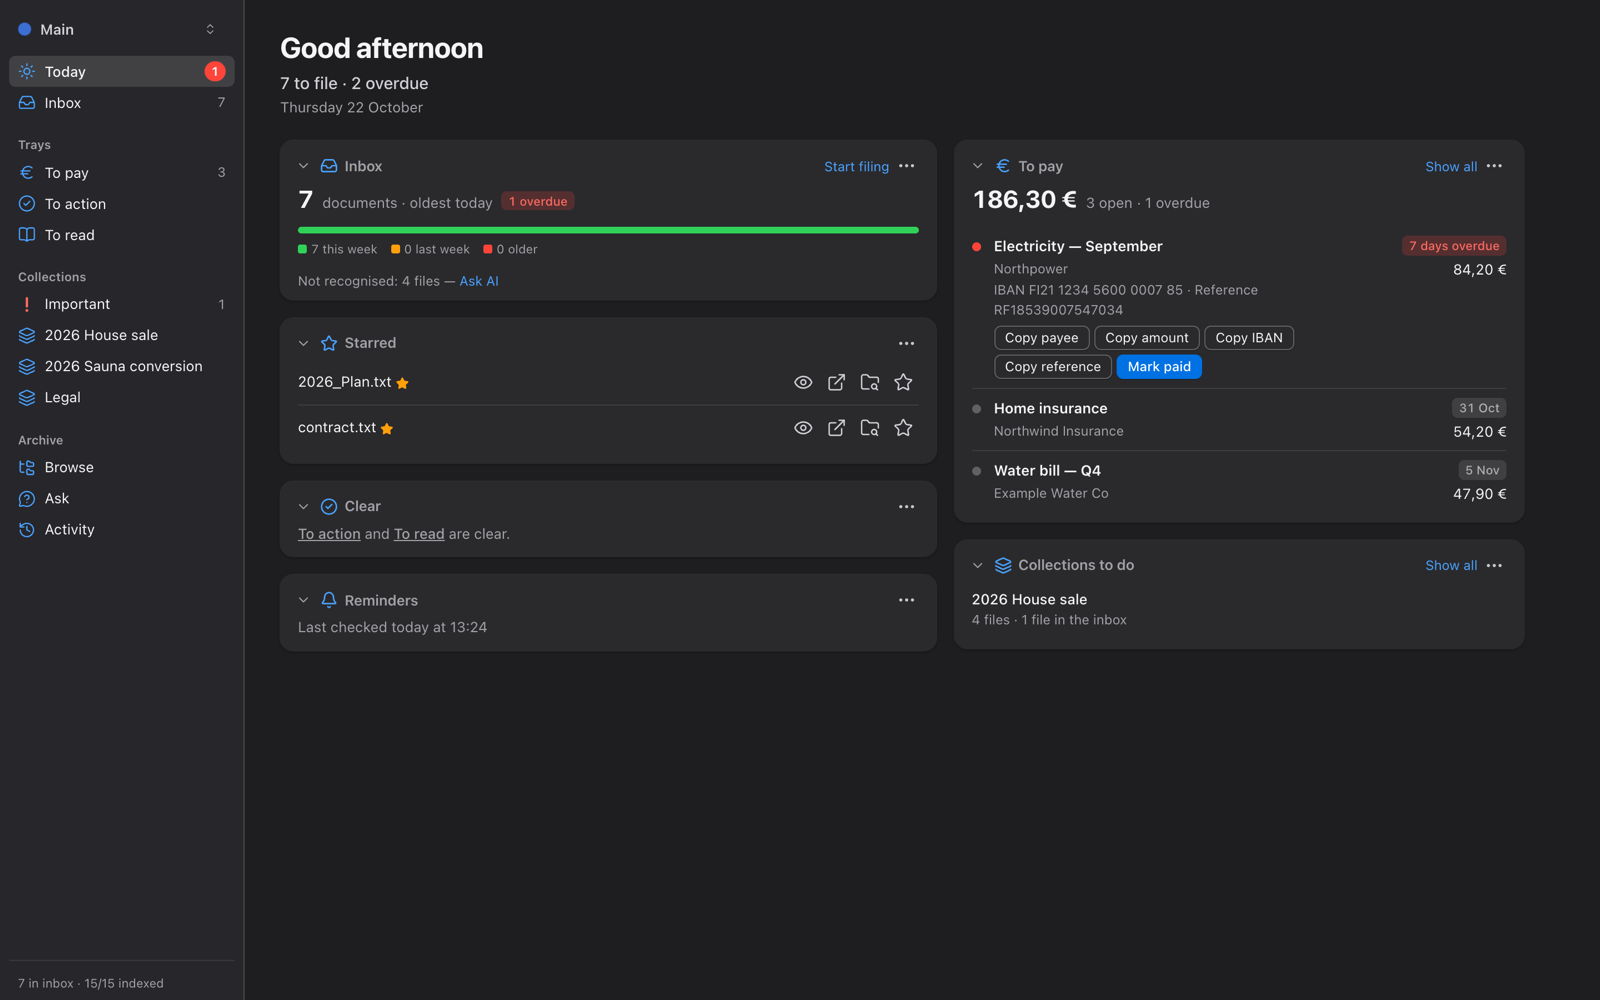
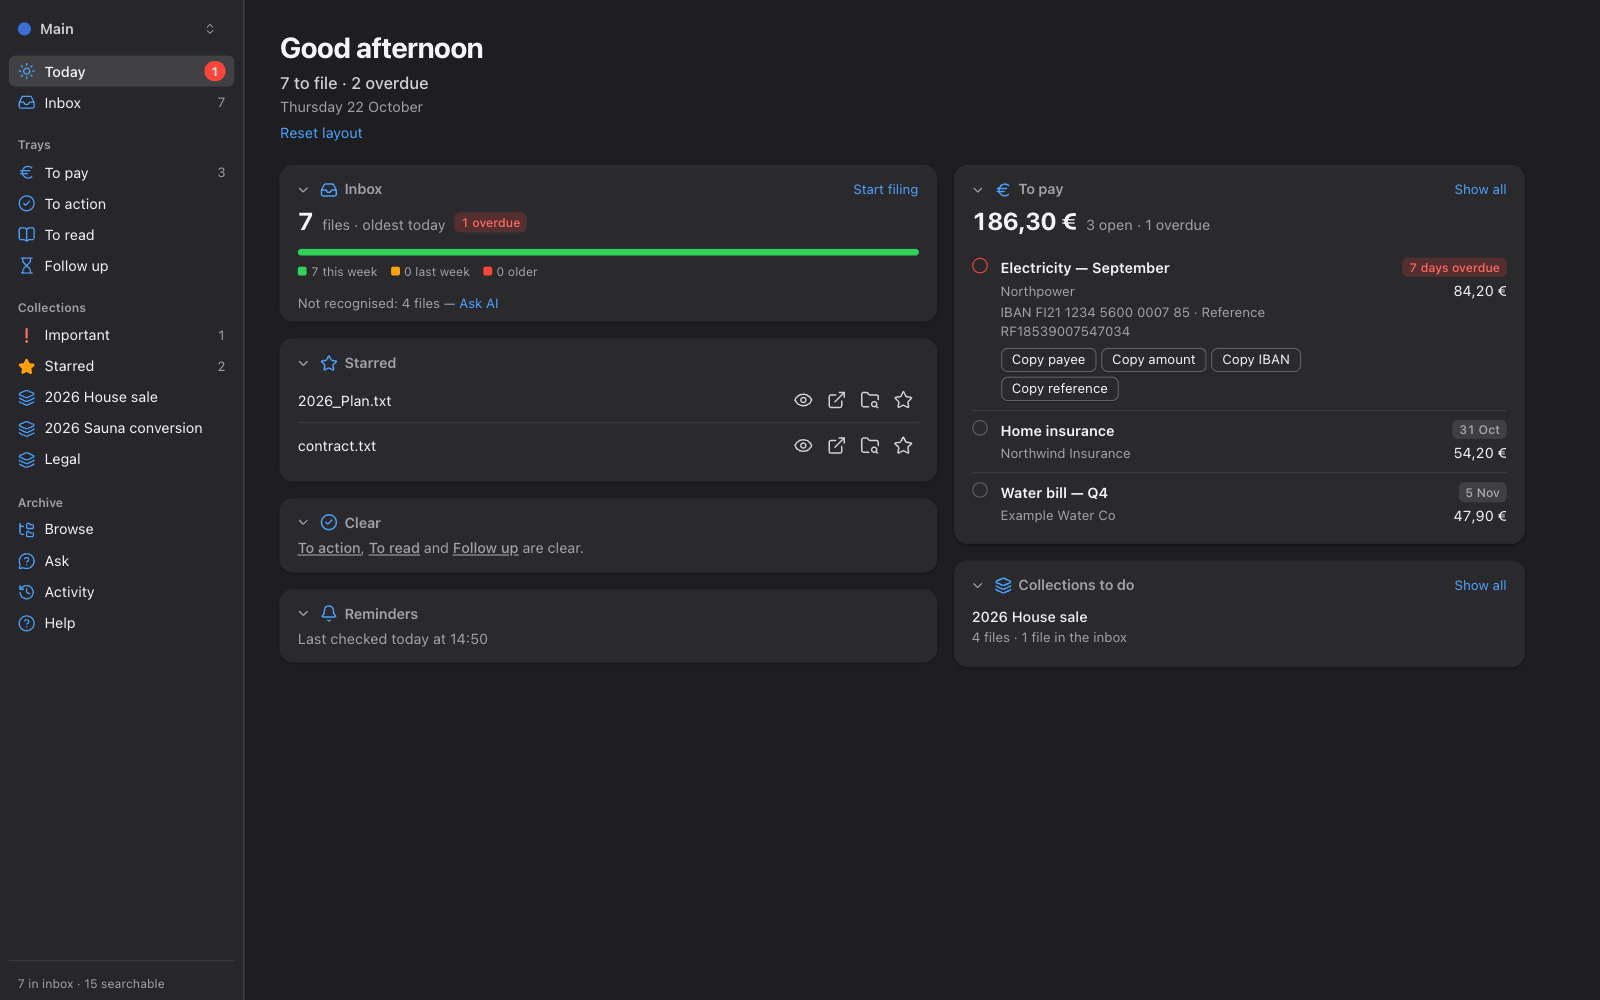
docs: refresh the README and screenshots; fix: excluded AI folders found in any case on Linux (#19)
* docs: refresh the README and its screenshots after #15 to #18

The screenshots showed the old Browse and collection panels, no Follow up tray, no
Starred row and the old key hints. All twelve are retaken in light and dark, and a
third row adds the collection panel and Activity → AI with the excluded folders. The
text mentions folders in collections and the excluded-folders list, and drops em
dashes.

scripts/screenshots stages a fresh demo archive through the API (only the demo server
on localhost) and takes the shots with Playwright and the installed Chrome, so the next
refresh is two commands.

* fix: find excluded AI folders in any case on Linux too

The excluded-folders list (#18) marks a folder "not in the archive" with a plain
is_dir() on the path as typed. Exclusion matching folds case and Unicode, so on a
case-sensitive file system "10. financial" was excluded correctly but reported as
missing. backend (ubuntu-latest) failed on main since #18 and on this PR for that
reason. The check now walks the folders with the same folding (fold_parts).

---------

diff --git a/scripts/screenshots/stage.py b/scripts/screenshots/stage.py
@@ -1,0 +1,62 @@
+"""Stage a fresh demo archive the way the README screenshots show it: Ongoing and
+Important converted, three bills in To pay, a folder excluded from AI. It talks only to
+the demo server on localhost:8766, never to a real archive.
+
+    cd backend && uv run python -m dam.demo /tmp/dam-shots
+    uv run dam --data-dir /tmp/dam-shots/data serve --no-open --port 8766
+    python3 scripts/screenshots/stage.py        # once, on the fresh demo
+    uv run --no-project --with playwright python scripts/screenshots/shoot.py docs/images
+
+``shoot.py`` uses the installed Google Chrome (``channel="chrome"``).
+"""
+
+import json
+import sys
+import urllib.request
+
+BASE = "http://localhost:8766"
+
+
+def call(method: str, path: str, body: dict | None = None):
+    data = None if body is None else json.dumps(body).encode()
+    req = urllib.request.Request(BASE + path, data=data, method=method, headers={"Content-Type": "application/json", "Origin": BASE})
+    try:
+        with urllib.request.urlopen(req) as r:
+            raw = r.read()
+            return json.loads(raw) if raw else None
+    except urllib.error.HTTPError as e:
+        sys.exit(f"{method} {path}: {e.code} {e.read().decode()}")
+
+
+def convert(kind: str, body: dict) -> None:
+    left = {e["rel"] for e in call("GET", f"/api/{kind}/entries") if not e.get("managed")}
+    if body["rel"] not in left:
+        print("already converted", body["rel"])
+        return
+    plan = call("POST", f"/api/{kind}/preview", body)
+    call("POST", f"/api/{kind}/convert", {**body, "fingerprint": plan["fingerprint"]})
+    print("converted", body["rel"])
+
+
+# Ongoing: two collections, two stars (as in the old Activity shot)
+convert("ongoing", {"rel": "##. Ongoing/2026 Sauna conversion", "collection": "2026 Sauna conversion"})
+convert("ongoing", {"rel": "##. Ongoing/Electricity contract", "star": True})
+convert("ongoing", {"rel": "##. Ongoing/2026_Plan.txt", "star": True, "destination": "30. Home"})
+convert("ongoing", {"rel": "##. Ongoing/Legal", "collection": "Legal", "destination": "30. Home/Legal"})
+convert("important", {"rel": "##. Important/passport.pdf", "destination": "40. Family"})
+
+# To pay: three bills with a payee and a title
+BILLS = [
+    ("demo-12", "Water bill — Q4", "Example Water Co"),
+    ("demo-4", "Electricity — September", "Northpower"),
+    ("demo-3", "Home insurance", "Northwind Insurance"),
+]
+for drive_id, title, payee in BILLS:
+    created = call("POST", "/api/items/quick", {"tray": "to-pay", "drive_ids": [drive_id]})["created"]
+    item = created[0]
+    call("PATCH", f"/api/items/{item['id']}", {"title": title, "fields": {**item["fields"], "payee": payee}})
+    print("item", item["id"], title)
+
+# AI: exclude the family folder (it exists in the demo) besides the defaults
+call("PUT", "/api/ai/exclude-folders", {"folders": ["40. Family", "50. Medical"]})
+print("excluded folders set")

diff --git a/scripts/screenshots/shoot.py b/scripts/screenshots/shoot.py
@@ -1,0 +1,71 @@
+"""The README screenshots, light and dark, from the staged demo server (see stage.py):
+1600x1000 PNGs written to the folder given; more arguments take only those shots.
+
+    uv run --no-project --with playwright python scripts/screenshots/shoot.py docs/images [inbox ...]
+"""
+
+import sys
+from datetime import UTC, datetime
+from pathlib import Path
+
+from playwright.sync_api import sync_playwright
+
+BASE = "http://localhost:8766"
+OUT = Path(sys.argv[1])
+ONLY = set(sys.argv[2:])
+
+# A demo is staged whenever it is run: show its times as about 14:00 (a fixed-offset zone
+# from UTC-12 to UTC+14; the Etc/GMT names have the sign the other way round).
+_offset = (14 - datetime.now(UTC).hour + 12) % 24 - 12
+TZ = f"Etc/GMT{-_offset:+d}"
+
+
+def paymode(page):
+    page.get_by_role("button", name="Show large barcode").click()
+    page.get_by_role("dialog").wait_for()
+
+
+def expand(page):
+    page.get_by_role("button", name="Expand all").click()
+
+
+def ai(page):
+    page.get_by_role("button", name="AI", exact=True).click()
+    page.wait_for_selector("[aria-label='Excluded folders']")
+
+
+SHOTS = {
+    "inbox": ("/inbox?file=demo-12", None),
+    "today": ("/", None),
+    "paymode": ("/trays/to-pay?item=1", paymode),
+    "browse": ("/browse?path=30.%20Home&select=demo-15", None),
+    "activity": ("/activity", expand),
+    "collection": ("/collections/3", None),
+    "ai-settings": ("/activity", ai),
+}
+
+with sync_playwright() as p:
+    browser = p.chromium.launch(channel="chrome")
+    for scheme in ("light", "dark"):
+        ctx = browser.new_context(
+            viewport={"width": 1440, "height": 900},
+            device_scale_factor=1600 / 1440,
+            color_scheme=scheme,
+            timezone_id=TZ,
+        )
+        page = ctx.new_page()
+        for name, (url, then) in SHOTS.items():
+            if ONLY and name not in ONLY:
+                continue
+            page.goto(BASE + url)
+            page.wait_for_load_state("networkidle")
+            if then:
+                then(page)
+                page.wait_for_load_state("networkidle")
+            page.mouse.move(1439, 899)  # no hover highlight
+            page.wait_for_timeout(800)  # previews and fonts settle
+            path = OUT / f"{name}-{scheme}.png"
+            page.screenshot(path=str(path))
+            print(path.name)
+        ctx.close()
+    browser.close()

diff --git a/backend/src/dam/ai/service.py b/backend/src/dam/ai/service.py
@@ -16,11 +16,13 @@ import time
 from collections import OrderedDict
 from dataclasses import dataclass, field
 from hashlib import sha256
+from pathlib import Path
 from typing import TYPE_CHECKING, Any
 
 from dam.ai import cache, guard, keys, log
 from dam.ai.provider import AIProvider, AIResult, ProviderError
 from dam.ai.tasks import TASKS, AITask, Built
+from dam.ops.guards import fold_parts
 from dam.services.errors import Conflict, InvalidRequest, NotFound
 from dam.setup import write_ai_exclude_folders
 
@@ -252,7 +254,7 @@ class AIService:
         made yet); none while the archive cannot be listed (that is not the same)."""
         if not self.app.archive_available:
             return []
-        return [f for f in folders if not (self.app.paths.root / f).is_dir()]
+        return [f for f in folders if not _folder_exists(self.app.paths.root, f)]
 
     def recent(self, limit: int = 50) -> list[dict]:
         return log.recent(self.app.engine, limit)
@@ -531,3 +533,18 @@ class AIService:
             "cost_eur": cost,
             "duration_ms": int((time.monotonic() - started) * 1000),
         }
+
+
+def _folder_exists(root: Path, rel: str) -> bool:
+    """``rel`` is a folder in the archive, its names matched as an exclusion matches them
+    (NFC, any case): on a case-sensitive file system "10. financial" is still found."""
+    if (root / rel).is_dir():
+        return True
+    here = root
+    for part in fold_parts(rel):
+        try:
+            here = next(c for c in here.iterdir() if c.is_dir() and fold_parts(c.name) == (part,))
+        except (StopIteration, OSError):
+            return False
+    return True
+

diff --git a/backend/tests/test_ai_exclude_settings.py b/backend/tests/test_ai_exclude_settings.py
@@ -184,3 +184,16 @@ def test_an_inline_ai_section_is_a_conflict_and_the_file_stays(ai_app):
         ai_app.ai.set_exclude_folders(NEW)
     assert target.read_bytes() == before
     assert ai_app.settings.ai.exclude_folders == ["50. Medical", "70. Work", "90. Other People"]
+
+
+def test_a_folder_is_found_in_any_case_and_unicode_form(tmp_path):
+    """The "not in the archive" check matches names as the exclusion does, also on a
+    case-sensitive file system (Linux): any case, NFC or NFD."""
+    from dam.ai.service import _folder_exists
+
+    (tmp_path / "10. Financial" / "Pankit ä").mkdir(parents=True)
+    assert _folder_exists(tmp_path, "10. Financial")
+    assert _folder_exists(tmp_path, "10. financial")
+    assert _folder_exists(tmp_path, "10. FINANCIAL/pankit ä")  # NFD ä
+    assert not _folder_exists(tmp_path, "10. Financial/Banks")
+    assert not _folder_exists(tmp_path, "70. Work")

diff --git a/README.md b/README.md
@@ -7,7 +7,7 @@
 **Your paperwork, filed and findable.** Digital Archive Manager (`dam`) is a local-first
 app for the documents you keep in Google Drive, OneDrive, Dropbox, iCloud Drive or any
 plain folder. It reads every document (with OCR for scans), suggests a name and a folder
-for each new one, keeps your bills and to-dos in trays, and lets you search everything —
+for each new one, keeps your bills and to-dos in trays, and lets you search everything,
 without ever deleting a file.
 
 <picture>
@@ -25,15 +25,17 @@ without ever deleting a file.
   dam and your archive is still just folders and files.
 - **Private.** Everything runs on your computer; the app only listens on `127.0.0.1`.
   The optional AI help sends text only when you click, after showing you exactly what will
-  be sent.
+  be sent, and never from the folders you exclude (by default medical, work and other people's
+  documents; change the list under Activity → AI).
 - **Fast filing.** New documents land in an inbox. dam reads them, proposes a name, a
   folder (from your rules, or from where similar files went) and tags, and files them with
   one key.
 - **Bills that pay themselves (almost).** Due dates, amounts, IBANs and references are
   picked up from the scan. The To pay tray shows what is due, with a copy button on every
-  field — and for Finnish bills a bank barcode to scan with your banking app.
+  field, and for Finnish bills a bank barcode to scan with your banking app.
 - **Collections for things in progress.** Group the documents of a house sale, a
-  renovation or a court case, with notes and a checklist, without moving them.
+  renovation or a court case, with notes and a checklist, without moving them. Add a whole
+  folder and everything in it belongs, including what you put in it later.
 
 <table>
   <tr>
@@ -41,16 +43,24 @@ without ever deleting a file.
     <td><picture><source media="(prefers-color-scheme: dark)" srcset="docs/images/paymode-dark.png"><img alt="Pay mode: payee, IBAN, reference, amount and a bank barcode in large type" src="docs/images/paymode-light.png"></picture></td>
   </tr>
   <tr>
-    <td align="center"><b>Today</b> — what needs you, at a glance</td>
-    <td align="center"><b>Pay mode</b> — check the details, scan, done</td>
+    <td align="center"><b>Today</b>: what needs you, at a glance</td>
+    <td align="center"><b>Pay mode</b>: check the details, scan, done</td>
   </tr>
   <tr>
     <td><picture><source media="(prefers-color-scheme: dark)" srcset="docs/images/browse-dark.png"><img alt="Browse: folders, search and a preview of the selected file" src="docs/images/browse-light.png"></picture></td>
     <td><picture><source media="(prefers-color-scheme: dark)" srcset="docs/images/activity-dark.png"><img alt="Activity: every change in plain words, each with its own Undo" src="docs/images/activity-light.png"></picture></td>
   </tr>
   <tr>
-    <td align="center"><b>Browse</b> — folders, full-text search, Quick Look</td>
-    <td align="center"><b>Activity</b> — every change, each with Undo</td>
+    <td align="center"><b>Browse</b>: folders, full-text search, Quick Look</td>
+    <td align="center"><b>Activity</b>: every change, each with Undo</td>
+  </tr>
+  <tr>
+    <td><picture><source media="(prefers-color-scheme: dark)" srcset="docs/images/collection-dark.png"><img alt="A collection: its groups, what needs attention, and the selected file with its preview, group and actions" src="docs/images/collection-light.png"></picture></td>
+    <td><picture><source media="(prefers-color-scheme: dark)" srcset="docs/images/ai-settings-dark.png"><img alt="Activity, AI: this month's spend, the AI switch and the folders that are never sent" src="docs/images/ai-settings-light.png"></picture></td>
+  </tr>
+  <tr>
+    <td align="center"><b>Collections</b>: a house sale in one place, nothing moved</td>
+    <td align="center"><b>AI settings</b>: spend, the switch and the folders never sent</td>
   </tr>
 </table>
 
@@ -74,8 +84,8 @@ On first start dam asks which folder is your archive. It finds the folders of Go
 Drive, OneDrive, Dropbox, iCloud Drive, Nextcloud and others for you, or you pick any
 folder. Then either:
 
-- **use an existing archive as it is** — dam indexes it and changes nothing until you ask, or
-- **start a new archive** — pick a starter layout (Household, Minimal or your own),
+- **use an existing archive as it is**: dam indexes it and changes nothing until you ask, or
+- **start a new archive**: pick a starter layout (Household, Minimal or your own),
   preview the folders, and create them (undoable, like everything else).
 
 **Just want to look around first?** Create a demo archive with made-up documents:
@@ -86,7 +96,7 @@ uv run dam archives add Demo --demo --folder /tmp/dam-demo-archive
 uv run dam --archive Demo serve --port 8766
 ```
 
-You can keep several archives — say your real one and a test one — each with its own
+You can keep several archives (say your real one and a test one), each with its own
 settings, and switch between them from the top of the sidebar.
 
 ## Platform support
@@ -109,7 +119,7 @@ Details are in the [technical reference](docs/reference.md#platform-support).
 - [Technical reference](docs/reference.md): install, the command line, config files and
   rules, the API and the safety model in detail
 - [Changelog](CHANGELOG.md)
-- [Contributing](CONTRIBUTING.md) — development setup, tests and the safety rules every
+- [Contributing](CONTRIBUTING.md): development setup, tests and the safety rules every
   change must keep
 - [Security policy](SECURITY.md)
 

diff --git a/CHANGELOG.md b/CHANGELOG.md
@@ -88,6 +88,8 @@ All notable changes are listed here. The format follows
 
 ### Fixed
 
+- On Linux, an excluded AI folder typed in another case (`10. financial`) no longer
+  shows as "not in the archive"; it is found as the exclusion itself finds it.
 - Dropping a folder from Browse on a collection in the sidebar now adds it; the row lit up
   but the browser cancelled the drop.
 - After adding a group to a collection, **New group** could not add another straight
